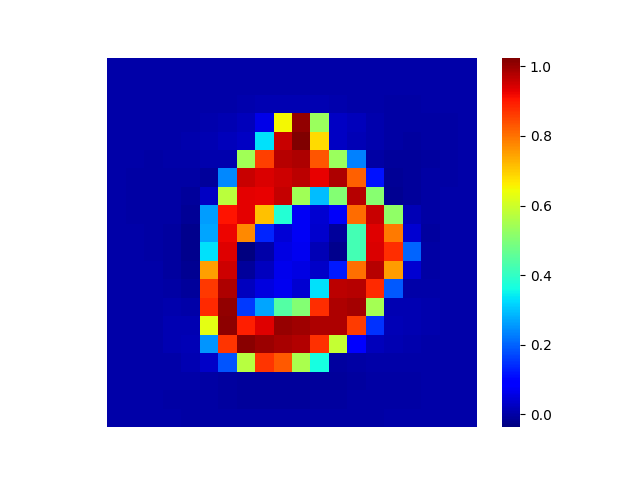
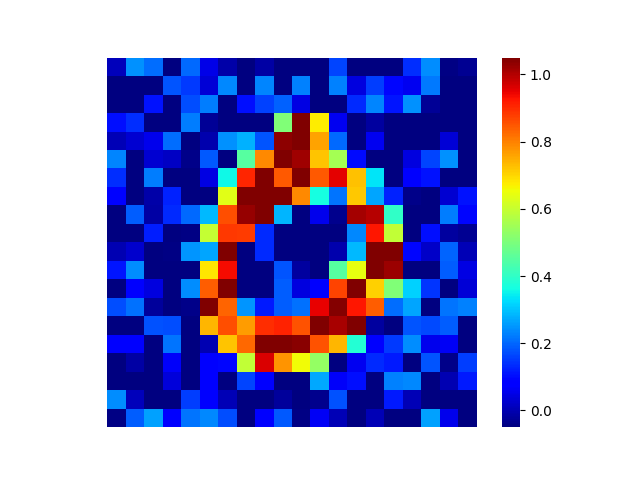
model shared

diff --git a/LeakGradient/leakimage.py b/LeakGradient/leakimage.py
@@ -67,37 +67,13 @@ def general_neural_networks(x_train, y_train, x_test, y_test):
 	for i in range(400):
 		grad_part[i] = gradients[0][i, 0]
 
-	return input_data, grad_part
+	return input_data, grad_part, model
 
 
-def general_neural_networks_with_regularization(x_train, y_train, x_test, y_test):
-	# parameter
-	batch_size = 200
-	learning_rate = 1e-4
-	epochs = 10
-	lam = 0.1
-
-	x_train, y_train, x_test, y_test = load_mnist()
-
-	# モデルの作成
-	model = tf.keras.models.Sequential([
-		tf.keras.layers.Flatten(input_shape=(20, 20)),
-		tf.keras.layers.Dense(25, activation=tf.nn.relu, use_bias=True, kernel_regularizer=tf.keras.regularizers.l2(lam)),
-		tf.keras.layers.Dense(10, activation=tf.nn.softmax, use_bias=True, kernel_regularizer=tf.keras.regularizers.l2(lam))
-	])
- 
-	# モデルのコンパイル
-	model.compile(optimizer='sgd',
-				loss='categorical_crossentropy',
-				metrics=['accuracy'])
-
-	# モデルの概要を表示
-	model.summary()
- 
-	# モデルの訓練
-	r = model.fit(x_train, y_train, validation_data=(x_test, y_test), epochs=epochs)
-
+def general_neural_networks_with_regularization(x_test, y_test, model):
+	lam = 0.0001
 	W = model.layers[1].get_weights()[0]
+	print(np.max(W))
 
 	# 勾配を求める x_test[3]が0の画像
 	input_data = x_test[3].reshape(-1, 20, 20)
@@ -111,18 +87,17 @@ def general_neural_networks_with_regularization(x_train, y_train, x_test, y_test
 
 	# 勾配の計算
 	gradients = tape.gradient(loss, model.layers[1].trainable_variables)
- 
 	grad_part = np.zeros(400)
 	for i in range(400):
-		grad_part[i] = (gradients[0][i, 0] + lam * W[i, 0])/ gradients[1][0]
+		grad_part[i] = (gradients[0][i, 0] + lam * W[i, 0]) / gradients[1][0]
 	print(grad_part)
 
 	return grad_part
 
 def main():
 	x_train, y_train, x_test, y_test = load_mnist()
-	input_data, grad_part_b = general_neural_networks(x_train, y_train, x_test, y_test)
-	grad_part_c = general_neural_networks_with_regularization(x_train, y_train, x_test, y_test)
+	input_data, grad_part_b, model = general_neural_networks(x_train, y_train, x_test, y_test)
+	grad_part_c = general_neural_networks_with_regularization(x_test, y_test, model)
  
 	input_data = input_data.reshape(20, 20)
 	grad_part_b = grad_part_b.reshape(20, 20)
@@ -142,7 +117,7 @@ def main():
 
 	# (c)
 	plt.figure()
-	sns.heatmap(grad_part_c, square=True, xticklabels=False, yticklabels=False, cmap="jet")
+	sns.heatmap(grad_part_c, square=True, xticklabels=False, yticklabels=False, cmap="jet", vmin=-0.05, vmax=1.05)
 	plt.savefig("./result/c.png")
 	plt.close()
  
